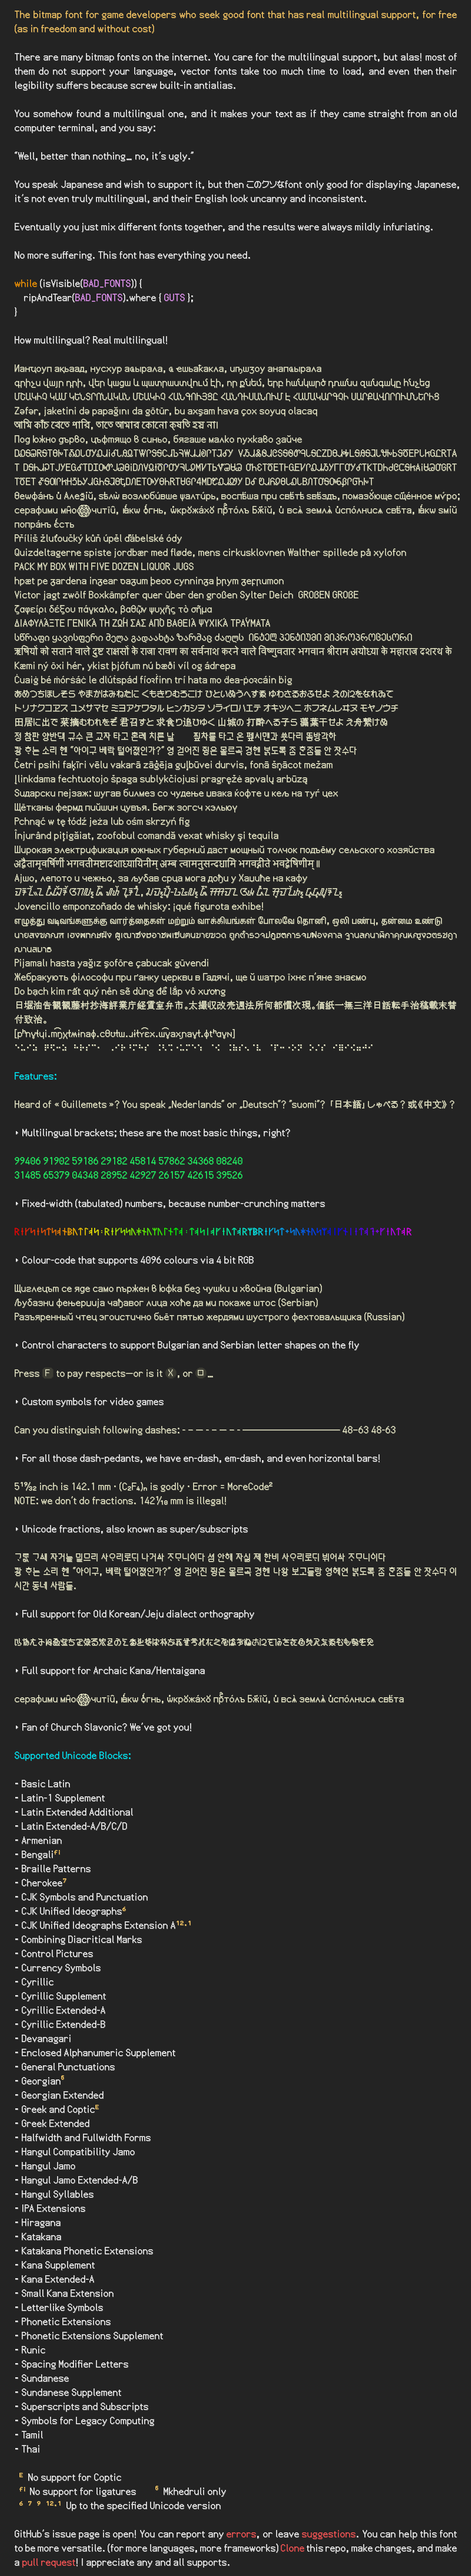
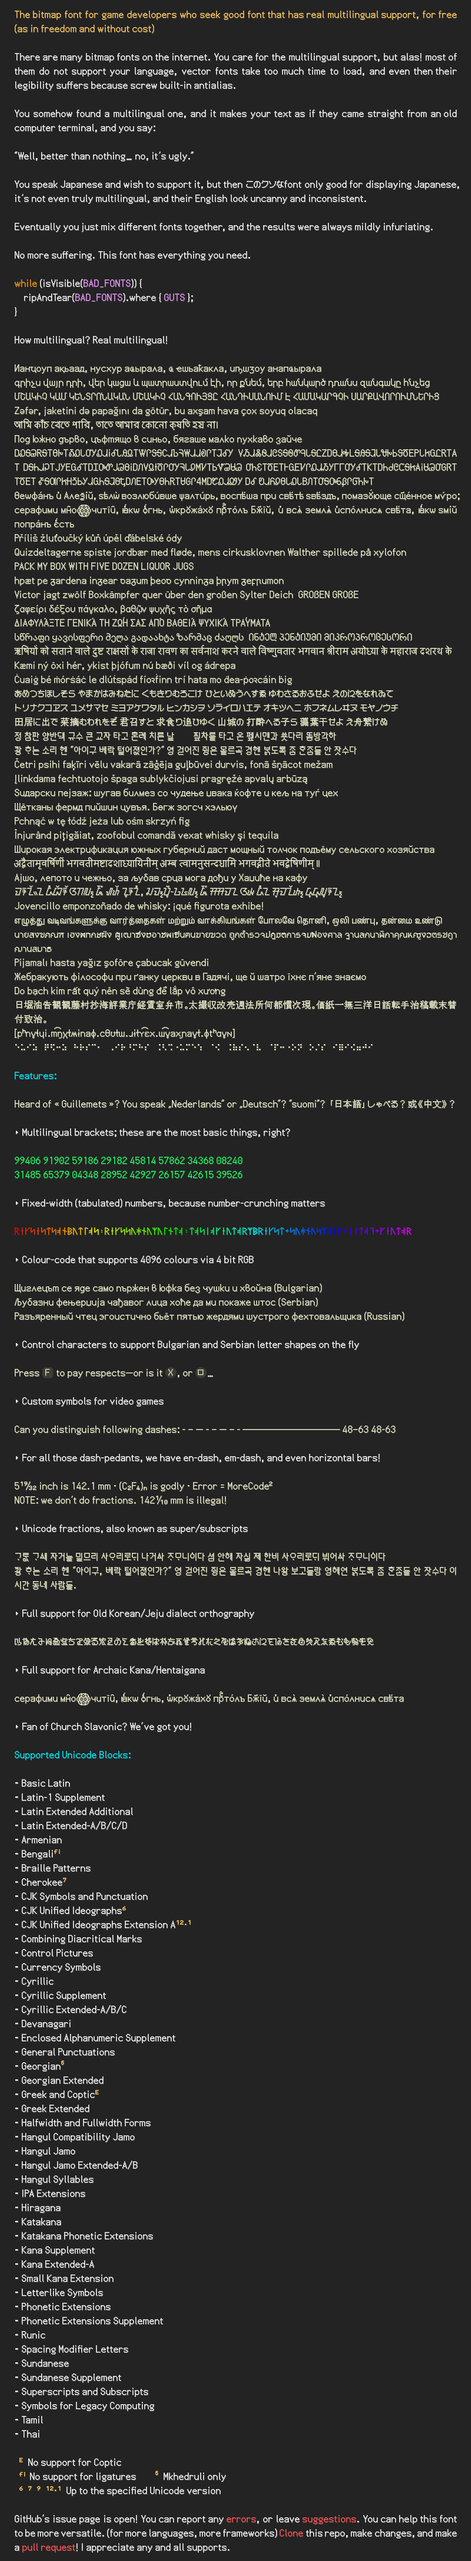
Cyrillic Ext-C

diff --git a/src/net/torvald/terrarumsansbitmap/gdx/TerrarumSansBitmap.kt b/src/net/torvald/terrarumsansbitmap/gdx/TerrarumSansBitmap.kt
@@ -890,6 +890,7 @@ class TerrarumSansBitmap(
             SHEET_LEGACY_COMPUTING_VARW -> legacyComputingIndexY(ch)
             SHEET_CYRILIC_EXTB_VARW -> cyrilicExtBIndexY(ch)
             SHEET_CYRILIC_EXTA_VARW -> cyrilicExtAIndexY(ch)
+            SHEET_CYRILIC_EXTC_VARW -> cyrilicExtCIndexY(ch)
             else -> ch / 16
         }
 
@@ -2615,6 +2616,7 @@ class TerrarumSansBitmap(
         internal const val SHEET_LEGACY_COMPUTING_VARW = 41
         internal const val SHEET_CYRILIC_EXTB_VARW = 42
         internal const val SHEET_CYRILIC_EXTA_VARW = 43
+        internal const val SHEET_CYRILIC_EXTC_VARW = 44
 
         internal const val SHEET_UNKNOWN = 254
 
@@ -2727,6 +2729,7 @@ class TerrarumSansBitmap(
             0x1FB00..0x1FBFF, // SHEET_LEGACY_COMPUTING_VARW
             0xA640..0xA69F, // SHEET_CYRILIC_EXTB_VARW
             0x2DE0..0x2DFF, // SHEET_CYRILIC_EXTA_VARW
+            0x1C80..0x1C8F, // SHEET_CYRILIC_EXTC_VARW
         )
         private val codeRangeHangulCompat = 0x3130..0x318F
 
@@ -3079,6 +3082,7 @@ class TerrarumSansBitmap(
         private fun legacyComputingIndexY(c: CodePoint) = (c - 0x1FB00) / 16
         private fun cyrilicExtBIndexY(c: CodePoint) = (c - 0xA640) / 16
         private fun cyrilicExtAIndexY(c: CodePoint) = (c - 0x2DE0) / 16
+        private fun cyrilicExtCIndexY(c: CodePoint) = (c - 0x1C80) / 16
 
         val charsetOverrideDefault = Character.toChars(CHARSET_OVERRIDE_DEFAULT).toSurrogatedString()
         val charsetOverrideBulgarian = Character.toChars(CHARSET_OVERRIDE_BG_BG).toSurrogatedString()

diff --git a/OTFbuild/sheet_config.py b/OTFbuild/sheet_config.py
@@ -74,6 +74,7 @@ SHEET_CONTROL_PICTURES_VARW = 40
 SHEET_LEGACY_COMPUTING_VARW = 41
 SHEET_CYRILIC_EXTB_VARW = 42
 SHEET_CYRILIC_EXTA_VARW = 43
+SHEET_CYRILIC_EXTC_VARW = 44
 
 SHEET_UNKNOWN = 254
 
@@ -122,6 +123,7 @@ FILE_LIST = [
     "symbols_for_legacy_computing_variable.tga",
     "cyrilic_extB_variable.tga",
     "cyrilic_extA_variable.tga",
+    "cyrilic_extC_variable.tga",
 ]
 
 CODE_RANGE = [
@@ -169,6 +171,7 @@ CODE_RANGE = [
     list(range(0x1FB00, 0x1FC00)),                                                  # 41: Legacy Computing
     list(range(0xA640, 0xA6A0)),                                                    # 42: Cyrillic Ext B
     list(range(0x2DE0, 0x2E00)),                                                    # 43: Cyrillic Ext A
+    list(range(0x1C80, 0x1C8F)),                                                    # 43: Cyrillic Ext C
 ]
 
 CODE_RANGE_HANGUL_COMPAT = range(0x3130, 0x3190)
@@ -547,5 +550,6 @@ def index_y(sheet_index, c):
         SHEET_LEGACY_COMPUTING_VARW: lambda: (c - 0x1FB00) // 16,
         SHEET_CYRILIC_EXTB_VARW: lambda: (c - 0xA640) // 16,
         SHEET_CYRILIC_EXTA_VARW: lambda: (c - 0x2DE0) // 16,
+        SHEET_CYRILIC_EXTC_VARW: lambda: (c - 0x1C80) // 16,
         SHEET_HANGUL: lambda: 0,
     }.get(sheet_index, lambda: c // 16)()
